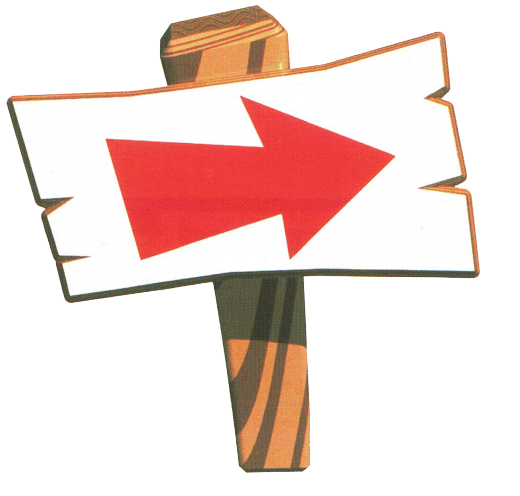
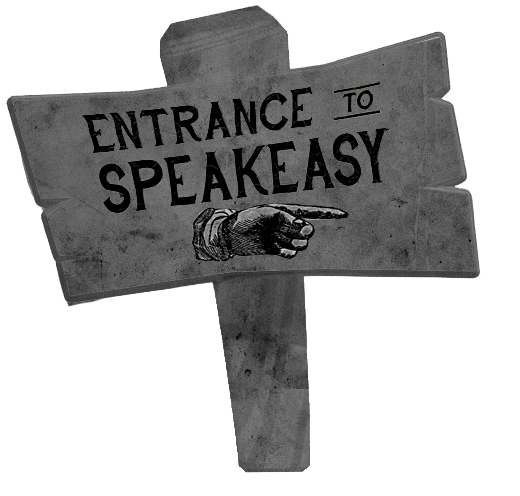
fixed images

diff --git a/js/text.js b/js/text.js
@@ -14,7 +14,7 @@ var y = 60;
 //Paragraphs to write
 // i testi delle frasi da mostrare nei vari "livelli"
 var paragraphs = [
-    "La crisi del 29 è iniziata con blah blah blah blah blah blahblah blah blahblah blah blahblah blah blahblah blah blahblah blah blahblah blah blahblah blah blahblah blah blah",
+    "La \“Crisi del '29\” anche chiamata \“Grande depressione\” fu la crisi economica che alla fine degli anni Venti colpì l’economia mondiale riducendo su scala globale produzione, occupazione, redditi, salari, consumi e risparmi. L’inizio della grande depressione coincide con il pesante crollo che si abbatté sulla Borsa di Wall Street",
     "livello 1",
     "livello 2",
     "I'm blue, da ba dee da ba daa Da ba dee da ba daa, da ba dee da ba daa Da ba dee da ba daa, da ba dee da ba daa Da ba dee da ba daa, da ba dee da ba daa I'm blue, da ba dee da ba daa Da ba dee da ba daa, da ba dee da ba daa Da ba dee da ba daa, da ba dee da ba daa Da ba dee da ba daa, da ba dee da ba daa I'm blue, da ba dee da ba daa Da ba dee da ba daa, da ba dee da ba daa Da ba dee da ba daa, da ba dee da ba daa Da ba dee da ba daa, da ba dee da ba daa I'm blue, da ba dee da ba daa Da ba dee da ba daa, da ba dee da ba daa Da ba dee da ba daa, da ba dee da ba daa Da ba dee da ba daa, da ba dee da ba daa I'm blue, da ba dee da ba daa Da ba dee da ba daa, da ba dee da ba daa Da ba dee da ba daa, da ba dee da ba daa Da ba dee da ba daa, da ba dee da ba daa I'm blue, da ba dee da ba daa Da ba dee da ba daa, da ba dee da ba daa Da ba dee da ba daa, da ba dee da ba daa Da ba dee da ba daa, da ba dee da ba daa I'm blue, da ba dee da ba daa Da ba dee da ba daa, da ba dee da ba daa Da ba dee da ba daa, da ba dee da ba daa Da ba dee da ba daa, da ba dee da ba daa I'm blue, da ba dee da "

diff --git a/js/index.js b/js/index.js
@@ -87,16 +87,16 @@ function step() {
 
 function draw() {
   //Draw canvas background
-  canvasBackground.src = "../assets/cloudsFixed.jpg";
-  ctx.drawImage(canvasBackground, 0, 0);
+  canvasBackground.src = "../assets/bg1.jpg";
+  ctx.drawImage(canvasBackground, 0, 0, 1280, 720);
 
   //Draw signs
-  signNext.src = "../assets/sign.png";
-  signPrev.src = "../assets/signrev.png";
+  signNext.src = "../assets/signwhite.png";
+  signPrev.src = "../assets/signrevwhite.png";
   if(currentLevel + 1 < paragraphs.length)
-    ctx.drawImage(signNext, 1150, 530, 100, 100);
+    ctx.drawImage(signNext, 1100, 490, 150, 150);
   if(currentLevel != 0)
-    ctx.drawImage(signPrev, 30, 530, 100, 100);
+    ctx.drawImage(signPrev, 30, 490, 150, 150);
 
   //Draw Player
   player.draw();
@@ -106,11 +106,11 @@ function draw() {
 
   //Show text when on signs for better ux
   if(player.x >= 1100 && currentLevel + 1 < paragraphs.length) {
-    ctx.fillText("Premi invio per andare", 1140, 450, 120);
-    ctx.fillText("al livello sucessivo", 1150, 470, 100);
+    ctx.fillText("Premi invio per andare", 1100, 450, 120);
+    ctx.fillText("al livello sucessivo", 1110, 470, 100);
   } else if(player.x <= 150 && currentLevel > 0) {
-    ctx.fillText("Premi invio per andare", 30, 450, 120);
-    ctx.fillText("al livello precedente", 40, 470, 100);
+    ctx.fillText("Premi invio per andare", 50, 450, 120);
+    ctx.fillText("al livello precedente", 60, 470, 100);
   }
 
   //Show text when on pipe

diff --git a/js/player.js b/js/player.js
@@ -12,7 +12,7 @@ function Player(x, y, borders) {
     this.active = true;
     this.facing = 0;
     this.previousFacing = 0;
-    this.width = 50;
+    this.width = 75;
     this.height = 100;
 
     this.step = function() {
@@ -129,19 +129,19 @@ function Player(x, y, borders) {
   this.draw = function() {
     if (this.facing === 0) {
       let marioSkin = new Image();
-      marioSkin.src = "../assets/mario1.jpg";
+      marioSkin.src = "../assets/rightstill.png";
       ctx.drawImage(marioSkin, this.x, this.y, this.width, this.height);
     } else if (this.facing === 1) {
       let marioSkin = new Image();
-      marioSkin.src = "./assets/mario2.jpg";
+      marioSkin.src = "./assets/rightmov.png";
       ctx.drawImage(marioSkin, this.x, this.y, this.width, this.height);
     } else if (this.facing === 2) {
       let marioSkin = new Image();
-      marioSkin.src = "./assets/mario2rev.jpg";
+      marioSkin.src = "./assets/leftmov.png";
       ctx.drawImage(marioSkin, this.x, this.y, this.width, this.height);
     } else if (this.facing === 3) {
       let marioSkin = new Image();
-      marioSkin.src = "./assets/mario1rev.jpg";
+      marioSkin.src = "./assets/leftstill.png";
       ctx.drawImage(marioSkin, this.x, this.y, this.width, this.height);
     }
   }

diff --git a/js/border.js b/js/border.js
@@ -11,10 +11,10 @@ class Border {
     if (this.type === 1) {
       //ctx.fillStyle = "blue";
       //ctx.fillRect(this.x, this.y, this.width, this.height);
-      grassBackground.src = "../assets/grass.jpg";
+      grassBackground.src = "../assets/ground.jpg";
       ctx.drawImage(grassBackground, this.x, this.y, 1280, 100);
     } else if (this.type === 2) {
-      pipe.src = "../assets/pipe.png"
+      pipe.src = "../assets/camino.png"
       ctx.drawImage(pipe, this.x, this.y, this.width, this.height);
     //} //else if (this.type === 3) {
       //invisibleBorders.src = "C:/Program Files (x86)/EasyPHP-Devserver-17/eds-www/JS Super Mario/assets/invisibleBorders.png"
